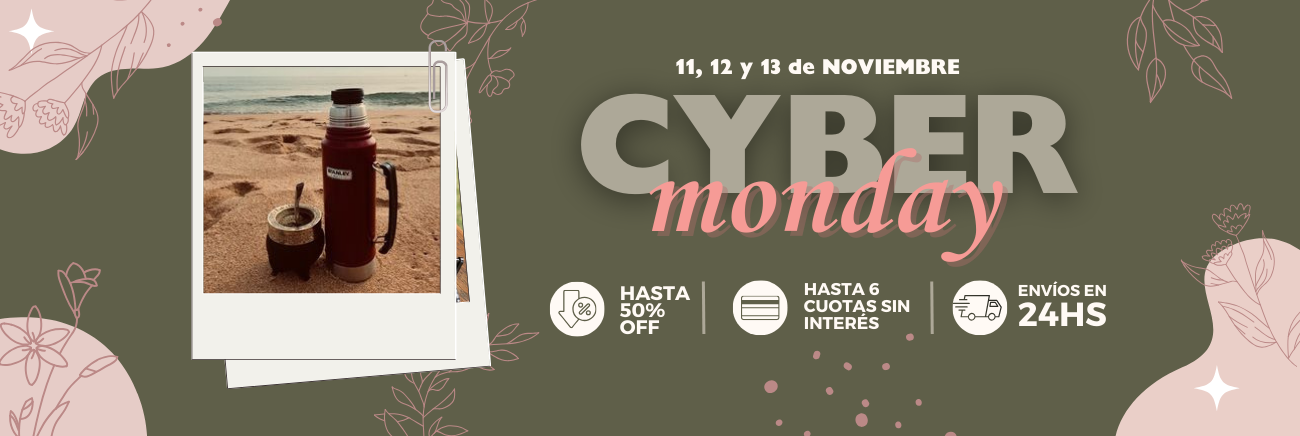
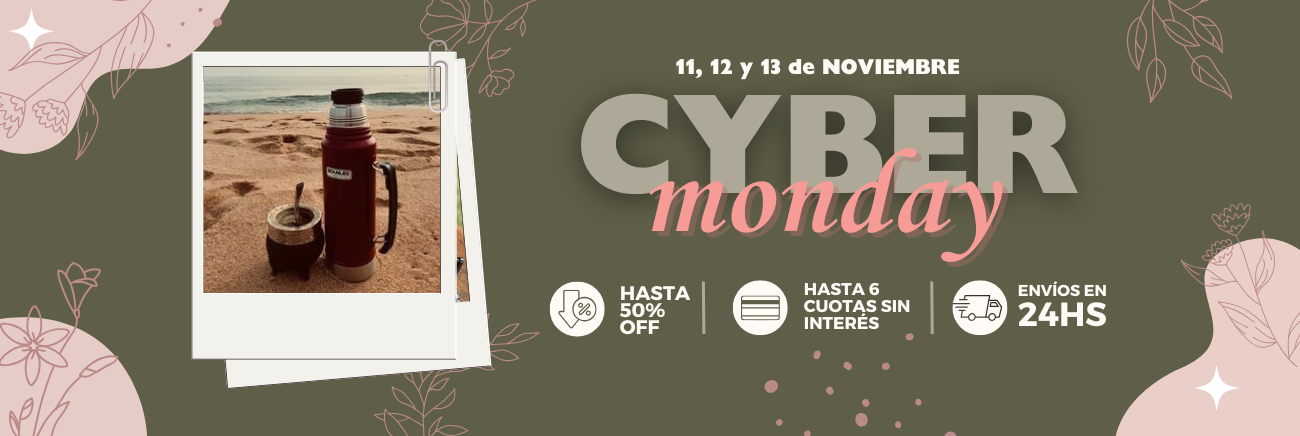
menu responsive

diff --git a/index.html b/index.html
@@ -35,17 +35,25 @@
                 </div>
             </div>
         </header>
-        <nav class="py-2 border-bottom custom-nav">
+        <nav class="navbar navbar-expand-lg py-2 border-bottom custom-nav">
             <div class="container-fluid px-5">
-                <ul class="nav me-auto">
-                    <li class="nav-item"><a href="index.html" class="nav-link px-4 active" aria-current="page">Inicio</a></li>
-                    <li class="nav-item"><a href="mates.html" class="nav-link px-4">Mates</a></li>
-                    <li class="nav-item"><a href="#" class="nav-link px-4">Accesorios</a></li>
-                    <li class="nav-item"><a href="#" class="nav-link px-4">¡Lo Nuevo!</a></li>
-                    <li class="nav-item"><a href="infoutil.html" class="nav-link px-4">Información Útil</a></li>
-                    <li class="nav-item"><a href="sobrenosotros.html" class="nav-link px-4">Sobre Nosotros</a></li>
-                    <li class="nav-item"><a href="#" class="nav-link px-4">Términos y Condiciones</a></li>
-                </ul>
+                <!-- Botón del menú hamburguesa -->
+                <button class="navbar-toggler" type="button" data-bs-toggle="collapse" data-bs-target="#navbarNav" aria-controls="navbarNav" aria-expanded="false" aria-label="Toggle navigation">
+                    <span class="navbar-toggler-icon"></span>
+                </button>
+                
+                <!-- Contenido del menú -->
+                <div class="collapse navbar-collapse" id="navbarNav">
+                    <ul class="navbar-nav me-auto">
+                        <li class="nav-item"><a href="index.html" class="nav-link px-4 active" aria-current="page">Inicio</a></li>
+                        <li class="nav-item"><a href="mates.html" class="nav-link px-4">Mates</a></li>
+                        <li class="nav-item"><a href="#" class="nav-link px-4">Accesorios</a></li>
+                        <li class="nav-item"><a href="#" class="nav-link px-4">¡Lo Nuevo!</a></li>
+                        <li class="nav-item"><a href="infoutil.html" class="nav-link px-4">Información Útil</a></li>
+                        <li class="nav-item"><a href="sobrenosotros.html" class="nav-link px-4">Sobre Nosotros</a></li>
+                        <li class="nav-item"><a href="#" class="nav-link px-4">Términos y Condiciones</a></li>
+                    </ul>
+                </div>
             </div>
         </nav>
 
@@ -63,7 +71,7 @@
                 <div class="carousel-inner">
                     <div class="carousel-item active">
                         <div class="carousel-container">
-                            <img src="assets/Carrusel/6.png" alt="CyberMonday" class="carousel-img">
+                            <img src="assets/Carrusel/6.jpg" alt="CyberMonday" class="carousel-img">
                         </div>
                     </div>
                     <div class="carousel-item">

diff --git a/styles/index.css b/styles/index.css
@@ -1,38 +1,33 @@
-@media (min-width: 768px) {
-    .bd-placeholder-img-lg {
-    font-size: 3.5rem;
-  }
-}
-
 /* ESTILO NAV */
 .custom-nav {
   background-color: #5F5E4A !important;
+  border-bottom: 1px solid #B06F6B;
 }
 
 .custom-nav .nav-link {
-  font-family: 'Roboto', sans-serif; 
-  font-weight: 800; 
-  font-size: 18px; 
-  color: #EFE7DD; 
+  font-family: 'Roboto', sans-serif;
+  font-weight: 800;
+  font-size: 18px;
+  color: #EFE7DD;
 }
 
-/* Estilo para el estado activo */
 .custom-nav .nav-link.active {
-  font-weight: 800; 
-  color: #DAABA3; 
+  font-weight: 800;
+  color: #DAABA3 !important; 
 }
 
-/* Estilo para el hover */
 .custom-nav .nav-link:hover {
   color: #B06F6B;
   text-decoration: underline;
 }
+
 
 /* ESTILO MAIN */
 /* Carousel base class */
 .carousel {
   margin-bottom: 4rem;
 }
+
 /* Since positioning the image, we need to help out the caption */
 .carousel-caption {
   bottom: 3rem;
@@ -46,7 +41,7 @@
 .carousel-img {
   width: 100%;
   height: 100%;
-  object-fit: cover; 
+  object-fit: cover;
 }
 
 .carousel-container {
@@ -56,10 +51,11 @@
 }
 
 
-main h1{
+main h1 {
   font-family: 'Roboto', sans-serif;
-  font-weight: 900; /* Roboto Black */
-  font-size: 38px;  
+  font-weight: 900;
+  /* Roboto Black */
+  font-size: 38px;
   color: #5F5E4A;
 }
 
@@ -68,24 +64,24 @@ main h1{
 
 /* ESTILO FOOTER */
 footer .nav-link {
-  font-size: 0.875rem; 
+  font-size: 0.875rem;
   color: #6c757d;
 }
 
 footer h5 {
-  font-family: 'Roboto', sans-serif; 
-  font-weight: 700; 
-  font-size: 18px; 
-  color: #EFE7DD; 
-}
-
-footer p {
-  font-size: 0.75rem; 
+  font-family: 'Roboto', sans-serif;
+  font-weight: 700;
+  font-size: 18px;
   color: #EFE7DD;
 }
 
-footer p a{
-  font-size: 0.75rem; 
+footer p {
+  font-size: 0.75rem;
+  color: #EFE7DD;
+}
+
+footer p a {
+  font-size: 0.75rem;
   color: #EFE7DD;
 }
 
@@ -93,10 +89,16 @@ footer .nav-link:hover {
   color: #B06F6B;
 }
 
-footer span{
-  font-family: 'Roboto', sans-serif; 
-  font-weight: 600; 
-  font-size: 14px; 
-  color: #EFE7DD; 
+footer span {
+  font-family: 'Roboto', sans-serif;
+  font-weight: 600;
+  font-size: 14px;
+  color: #EFE7DD;
 }
 
+@media (min-width: 768px) {
+  .bd-placeholder-img-lg {
+    font-size: 3.5rem;
+  }
+
+}

diff --git a/prueba.html b/prueba.html
@@ -1,0 +1,35 @@
+<!DOCTYPE html>
+<html lang="en">
+<head>
+    <meta charset="UTF-8">
+    <meta name="viewport" content="width=device-width, initial-scale=1.0">
+    <title>Document</title>
+    <link rel="stylesheet" href="styles/prueba.css"/>
+    <link href="https://cdn.jsdelivr.net/npm/bootstrap@5.3.2/dist/css/bootstrap.min.css" rel="stylesheet" integrity="sha384-T3c6CoIi6uLrA9TneNEoa7RxnatzjcDSCmG1MXxSR1GAsXEV/Dwwykc2MPK8M2HN" crossorigin="anonymous">
+</head>
+    <body>
+        <nav class="navbar navbar-expand-lg py-2 border-bottom custom-nav">
+            <div class="container-fluid px-5">
+                <!-- Botón del menú hamburguesa -->
+                <button class="navbar-toggler" type="button" data-bs-toggle="collapse" data-bs-target="#navbarNav" aria-controls="navbarNav" aria-expanded="false" aria-label="Toggle navigation">
+                    <span class="navbar-toggler-icon"></span>
+                </button>
+                
+                <!-- Contenido del menú -->
+                <div class="collapse navbar-collapse" id="navbarNav">
+                    <ul class="navbar-nav me-auto">
+                        <li class="nav-item"><a href="index.html" class="nav-link px-4 active" aria-current="page">Inicio</a></li>
+                        <li class="nav-item"><a href="mates.html" class="nav-link px-4">Mates</a></li>
+                        <li class="nav-item"><a href="#" class="nav-link px-4">Accesorios</a></li>
+                        <li class="nav-item"><a href="#" class="nav-link px-4">¡Lo Nuevo!</a></li>
+                        <li class="nav-item"><a href="infoutil.html" class="nav-link px-4">Información Útil</a></li>
+                        <li class="nav-item"><a href="sobrenosotros.html" class="nav-link px-4">Sobre Nosotros</a></li>
+                        <li class="nav-item"><a href="#" class="nav-link px-4">Términos y Condiciones</a></li>
+                    </ul>
+                </div>
+            </div>
+        </nav>
+        
+        
+    </body>
+</html>

diff --git a/styles/prueba.css b/styles/prueba.css
@@ -1,0 +1,22 @@
+/* ESTILO NAV */
+.custom-nav {
+    background-color: #5F5E4A !important;
+    border-bottom: 1px solid #B06F6B;
+  }
+  
+  .custom-nav .nav-link {
+    font-family: 'Roboto', sans-serif;
+    font-weight: 800;
+    font-size: 18px;
+    color: #EFE7DD;
+  }
+  
+  .custom-nav .nav-link.active {
+    font-weight: 800;
+    color: #DAABA3;
+  }
+  
+  .custom-nav .nav-link:hover {
+    color: #B06F6B;
+    text-decoration: underline;
+  }

diff --git a/sobrenosotros.html b/sobrenosotros.html
@@ -48,7 +48,7 @@
             </div>
         </nav>
 
-
+        
         <!-- MAIN -->
         <main>
             <h1 class="pt-3 px-5">SOBRE NOSOTROS</h1>
